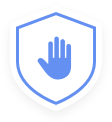
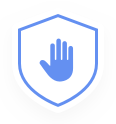
Further changes

diff --git a/src/modals/TradingDisclaimer.js b/src/modals/TradingDisclaimer.js
@@ -30,7 +30,7 @@ class TradingDisclaimer extends Component<Props> {
         <LText style={styles.text}>
           {t("portfolio.tradingDisclaimer.text1")}
         </LText>
-        <LText style={{ ...styles.text, marginTop: 28 }}>
+        <LText style={{ ...styles.text, marginTop: 16 }}>
           {t("portfolio.tradingDisclaimer.text2")}
         </LText>
         <View style={{ marginTop: 24, flexDirection: "row" }}>
@@ -57,8 +57,8 @@ const styles = StyleSheet.create({
     alignItems: "center",
   },
   image: {
-    marginTop: 17,
-    marginBottom: 24,
+    marginTop: 16,
+    marginBottom: 16,
   },
   buttonContainer: {
     flexGrow: 1,
@@ -68,7 +68,6 @@ const styles = StyleSheet.create({
   text: {
     fontSize: 14,
     lineHeight: 21,
-    textAlign: "center",
     color: colors.grey,
   },
   title: {
